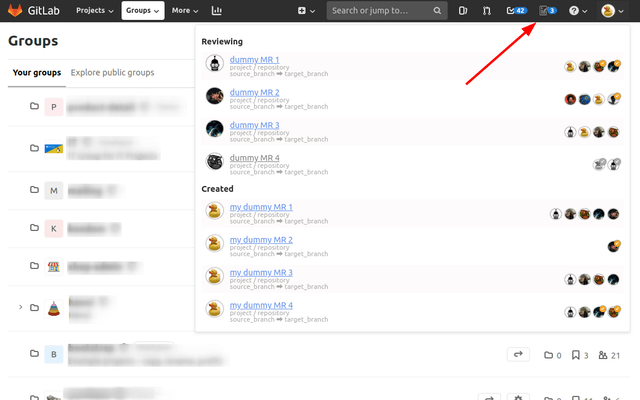
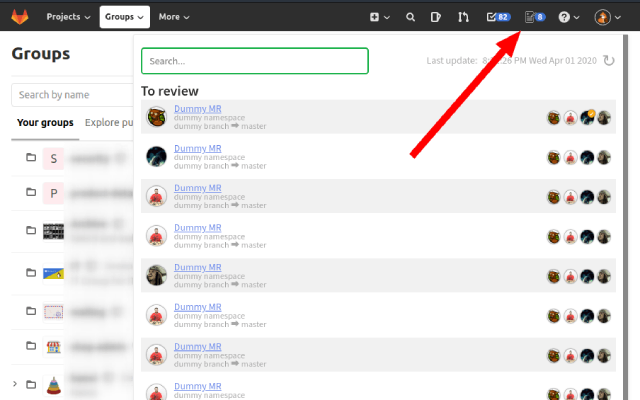
increase version and update changelog

diff --git a/changelog/index.html b/changelog/index.html
@@ -11,6 +11,17 @@
         <h2 class="e-heading u-gamma">Changelog</h2>
         <section class="c-changelog__item">
             <header>
+                <h2 class="e-heading u-delta">v2.4.0</h2>
+                <span class="c-changelog__notice u-milli">2020/04/01</span>
+            </header>
+            <h3 class="e-heading u-bold">tl;dr</h3>
+            <ul class="c-changelog__summary c-bullet-list">
+                <li class="c-bullet-list__item">Add search. Currently search in mr title, project nameWithNamespace, project pathWithNamespace, author name, sourceBranch, targetBranch.</li>
+                <li class="c-bullet-list__item">Add fixture <span class="u-italic">Expand textarea on new pipeline page</span> which helps you with small unresizable textareas in new-pipelines page, now they will be bigger for better readability of values.</li>
+            </ul>
+        </section>
+        <section class="c-changelog__item">
+            <header>
                 <h2 class="e-heading u-delta">v2.3.0</h2>
                 <span class="c-changelog__notice u-milli">2020/03/25</span>
             </header>
